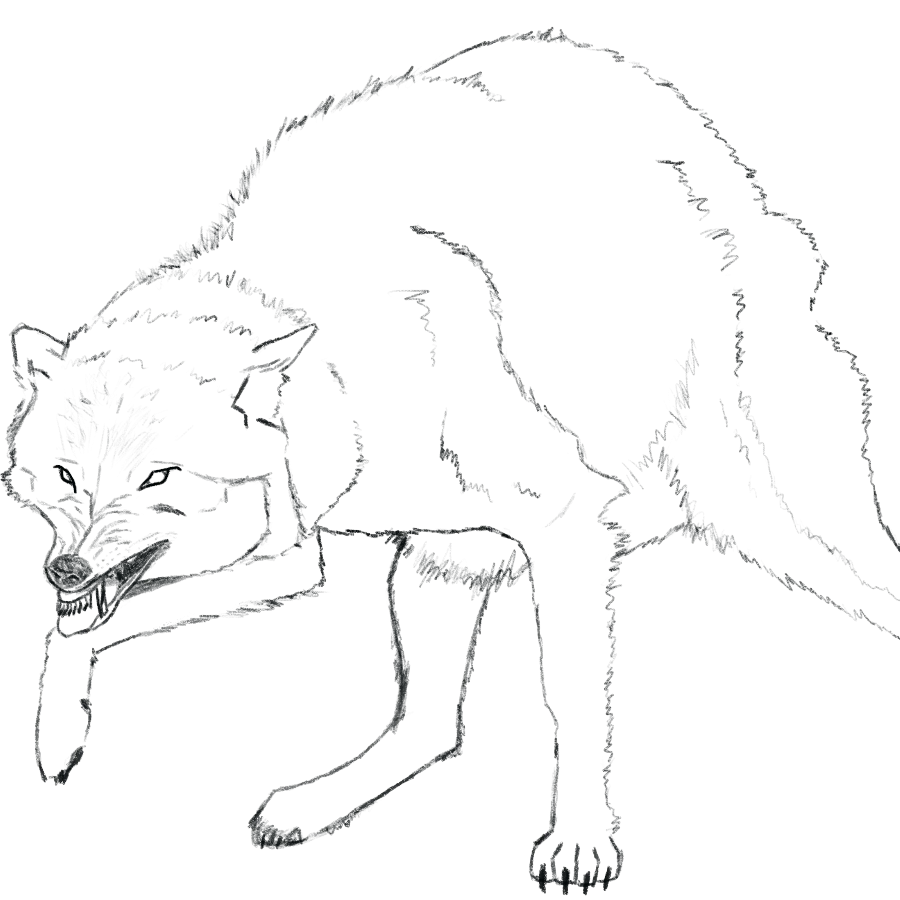
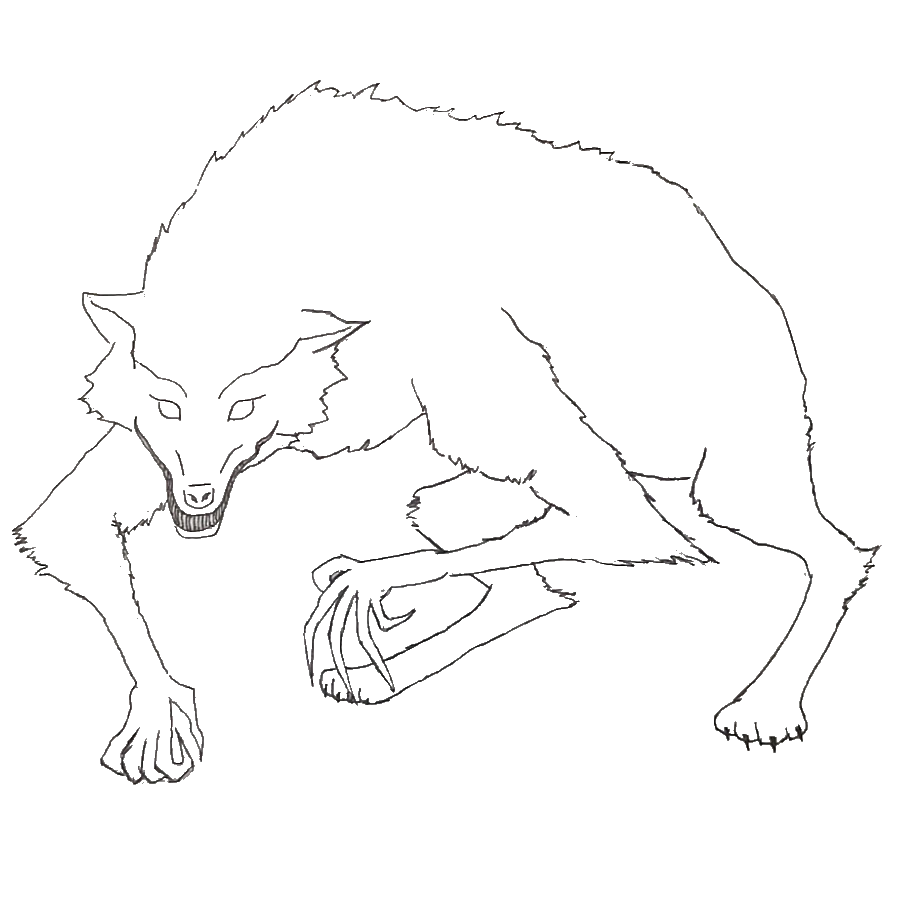
New wolf sprite, fixed combat text color

diff --git a/src/lib/data/enemy/EnemyMoveData.ts b/src/lib/data/enemy/EnemyMoveData.ts
@@ -9,19 +9,36 @@ interface IEnemyMoveData {
 
 export const EnemyMoveData: IEnemyMoveData = {
   bite: genMoveData(
-    "bite",
     0.6,
     7,
     [
       "Its jaw clamps down on your leg, causing a searing pain.",
-      `The [enemy] sinks its teeth into your flesh.`
+      "The [enemy] sinks its teeth into your flesh.",
+      "Teeth sink into your flesh",
+      "Pain jolts as its jaw clamps down."
     ],
     [
       `Its jaw lunges past you, missing.`,
-      `The [enemy] gnashes its teeth and lunges, narrowly missing.`
+      `The [enemy] gnashes its teeth and lunges, narrowly missing.`,
+      "It narrowly misses."
     ],
     [() => hurtPlayer(between(6, 12)), () => setPlayerAnimation("impact")],
     [],
     "reverselunge"
-  )
+  ),
+
+  claw: genMoveData(
+    "claw",
+    0.7,
+    5,
+    [
+      "Its claws lash into you."
+    ],
+    [
+      "Its claws whiz by as it strikes."
+    ],
+    [() => hurtPlayer(between(3, 7)), () => setPlayerAnimation("impact")],
+    [],
+    "reverselunge"
+  ),
 };

diff --git a/src/lib/components/combat/CombatText.svelte b/src/lib/components/combat/CombatText.svelte
@@ -8,6 +8,8 @@
     isCombatConsoleHeightSet
   } from "$lib/stores/ui/UIStore";
   import ConsoleLine from "../survive/console/ConsoleLine.svelte";
+  import { applyColorPrefix } from "$lib/utils/ColorUtils";
+  import { GameColors } from "$lib/data/ui/GameColors";
 
   let combatConsoleContainer: any = undefined;
   let consoleOutput: any = undefined;
@@ -61,7 +63,10 @@
   <div bind:this={consolePane} style="top: {$paneYPos}px;">
     <article bind:this={consoleOutput}>
       {#each $combatText as text, i}
-        <ConsoleLine opacity={getLineOpacity(i, $combatText.length)} {text} />
+        <ConsoleLine
+          opacity={getLineOpacity(i, $combatText.length)}
+          text={applyColorPrefix(text, GameColors.console.combat)}
+        />
       {/each}
     </article>
   </div>

diff --git a/src/lib/components/combat/CombatSprite.svelte b/src/lib/components/combat/CombatSprite.svelte
@@ -14,7 +14,7 @@
   export let endAnimationCallback: Function = () => false;
   export let flyConfig: object = { duration: 0, x: 0 };
   export let imgSrc: string = "/placeholder.webp";
-  export let width: number = 128;
+  export let width: number = 184;
 
   const tweenConfig = { duration: 500, easing: linear };
   const spritePos: Tweened<[number, number, number]> = tweened([0, 0, 1.0], tweenConfig);
@@ -54,10 +54,14 @@
 
 <style>
   picture {
-    margin: auto;
+    display: flex;
+    justify-content: center;
+    align-items: center;
+    width: 100%;
+    height: 100%;
   }
 
   img {
-    margin: 0.25rem;
+    margin: auto;
   }
 </style>

diff --git a/src/lib/parser/commands/use.ts b/src/lib/parser/commands/use.ts
@@ -3,9 +3,8 @@ import type { Item } from "../../../models/Item";
 import { get } from "svelte/store";
 import { GameEventFlags } from "$lib/data/game/GameEventFlags";
 import { ItemFlags } from "$lib/data/items/ItemFlags";
-import { PlayerFlags } from "$lib/data/player/PlayerFlags";
 import { items } from "$lib/stores/player/PlayerStore";
-import { disableForFlags, queueEventNow } from "$lib/utils/GameEventUtils";
+import { queueEventNow } from "$lib/utils/GameEventUtils";
 import { removeWords } from "$lib/utils/ParserUtils";
 import { appendRandomLine } from "$lib/stores/game/GameStore";
 import { GameColors } from "$lib/data/ui/GameColors";

diff --git a/src/lib/components/combat/CombatOverlay.svelte b/src/lib/components/combat/CombatOverlay.svelte
@@ -18,7 +18,7 @@
   unsubHp = health.subscribe((hp: number) => {
     if (hp < 91) {
       showInjury = true;
-      const pct: number = (hp / $maxHealth) * 100;
+      const pct: number = (hp / $maxHealth) * 100 + 20;
       injuryTween
         .set(pct - 10)
         .then(() => injuryTween.set(pct, { duration: 2000 }));

diff --git a/src/lib/data/world/Forest.ts b/src/lib/data/world/Forest.ts
@@ -78,7 +78,7 @@ export const Forest: Locale[] = [
         "It's hard to see through your car's tinted windows."
       )
     ]),
-    // spawns: w([F.createSpawn("wolf", 1)]),
+    spawns: w([F.createSpawn("wolf", 1)]),
     temperature: w(Temperatures.Cold)
   }),
 

diff --git a/src/lib/data/enemy/EnemyData.ts b/src/lib/data/enemy/EnemyData.ts
@@ -55,6 +55,6 @@ export const EnemyData: IEnemyData = {
       `The wolf whines as life leaves its body.`,
       `The carcass of the wolf lies on the ground.`
     ],
-    [EnemyMoveData.bite]
+    [EnemyMoveData.bite, EnemyMoveData.claw]
   )
 };

diff --git a/src/lib/data/ui/GameColors.ts b/src/lib/data/ui/GameColors.ts
@@ -4,6 +4,10 @@ export const GameColors: any = {
     health: "hsl(0, 58%, 25%)"
   },
   console: {
+    combat: {
+      color: "hsl(44, 44%, 5%)",
+      prefix: "%c"
+    },
     fear: {
       color: "hsl(350, 60%, 50%)",
       prefix: "%f"
